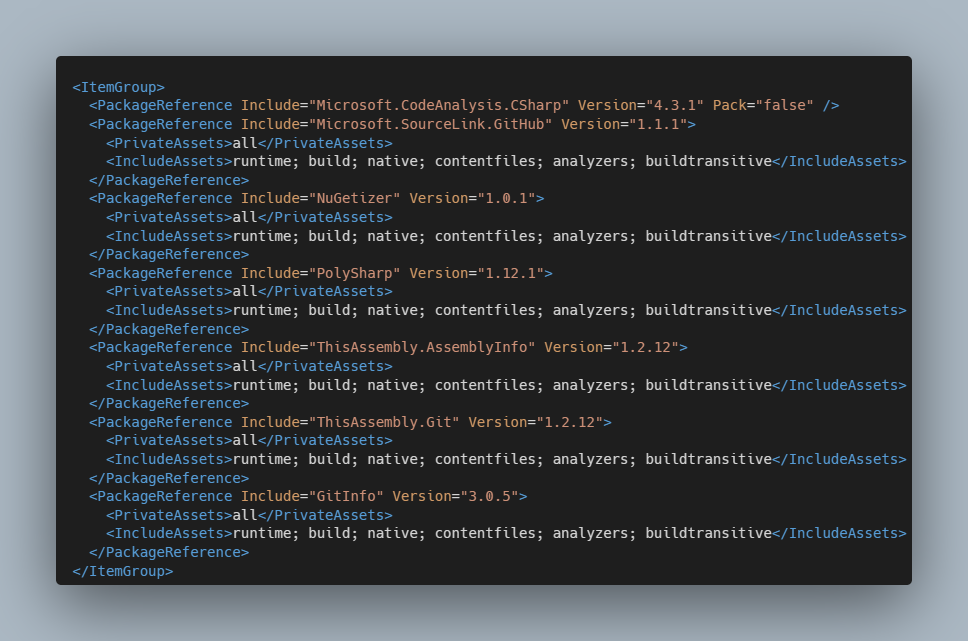
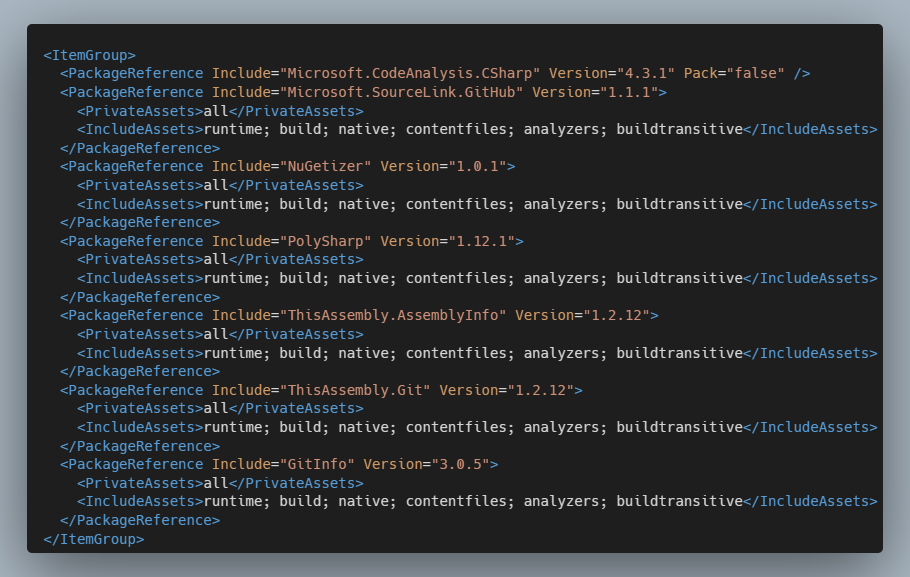
Use full raw URLs to display in nuget.org
Reduce padding a bit on the screenshots too.

diff --git a/readme.md b/readme.md
@@ -2,11 +2,11 @@
 
 Cleans the following crazy NuGet mess:
 
-![crazy references](assets/crazy.png)
+![crazy references](https://raw.githubusercontent.com/devlooped/PackageReferenceCleaner/main/assets/crazy.png)
 
 into this perfectly clean and 100% equivalent beauty:
 
-![clean references](assets/clean.png)
+![clean references](https://raw.githubusercontent.com/devlooped/PackageReferenceCleaner/main/assets/clean.png)
 
 ## How it works
 
